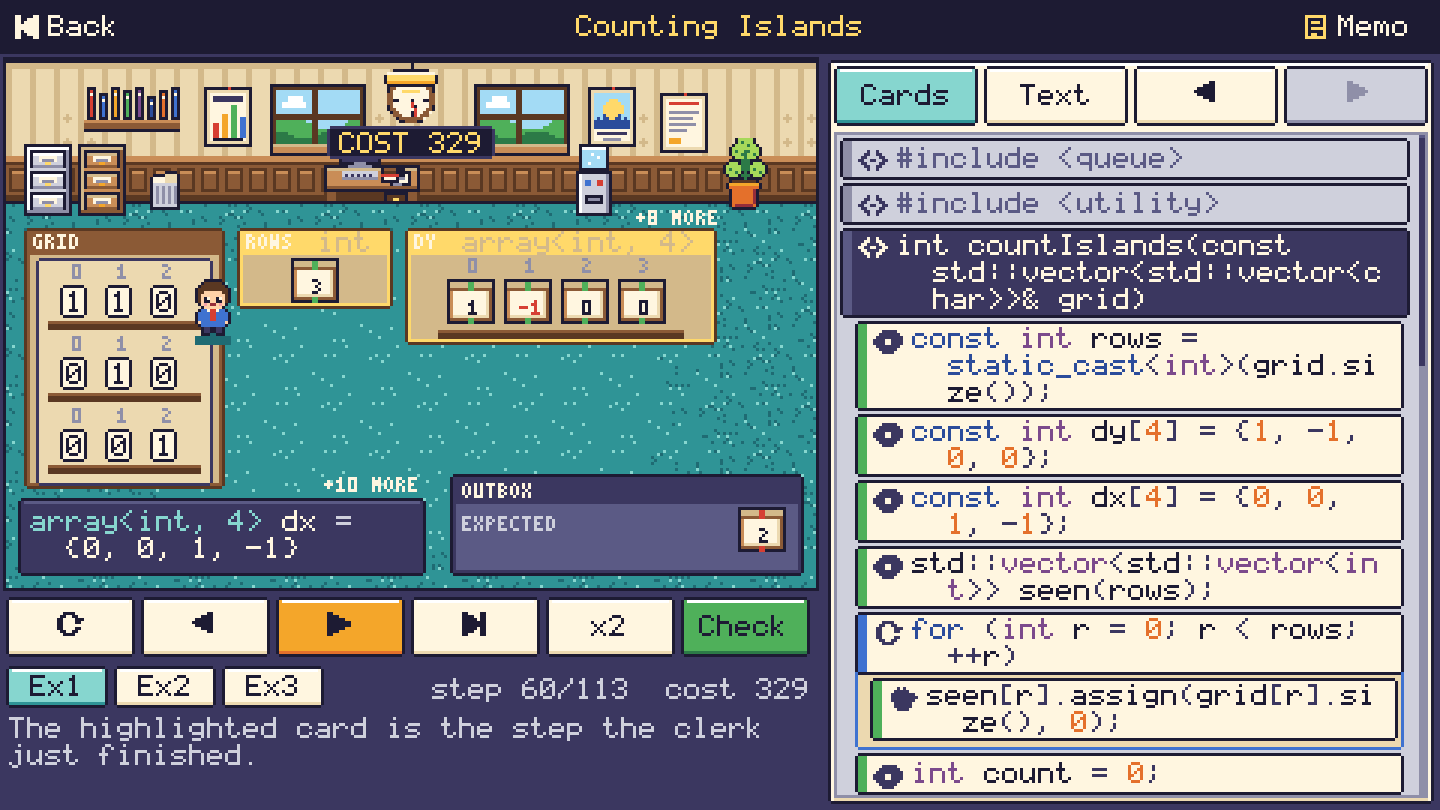
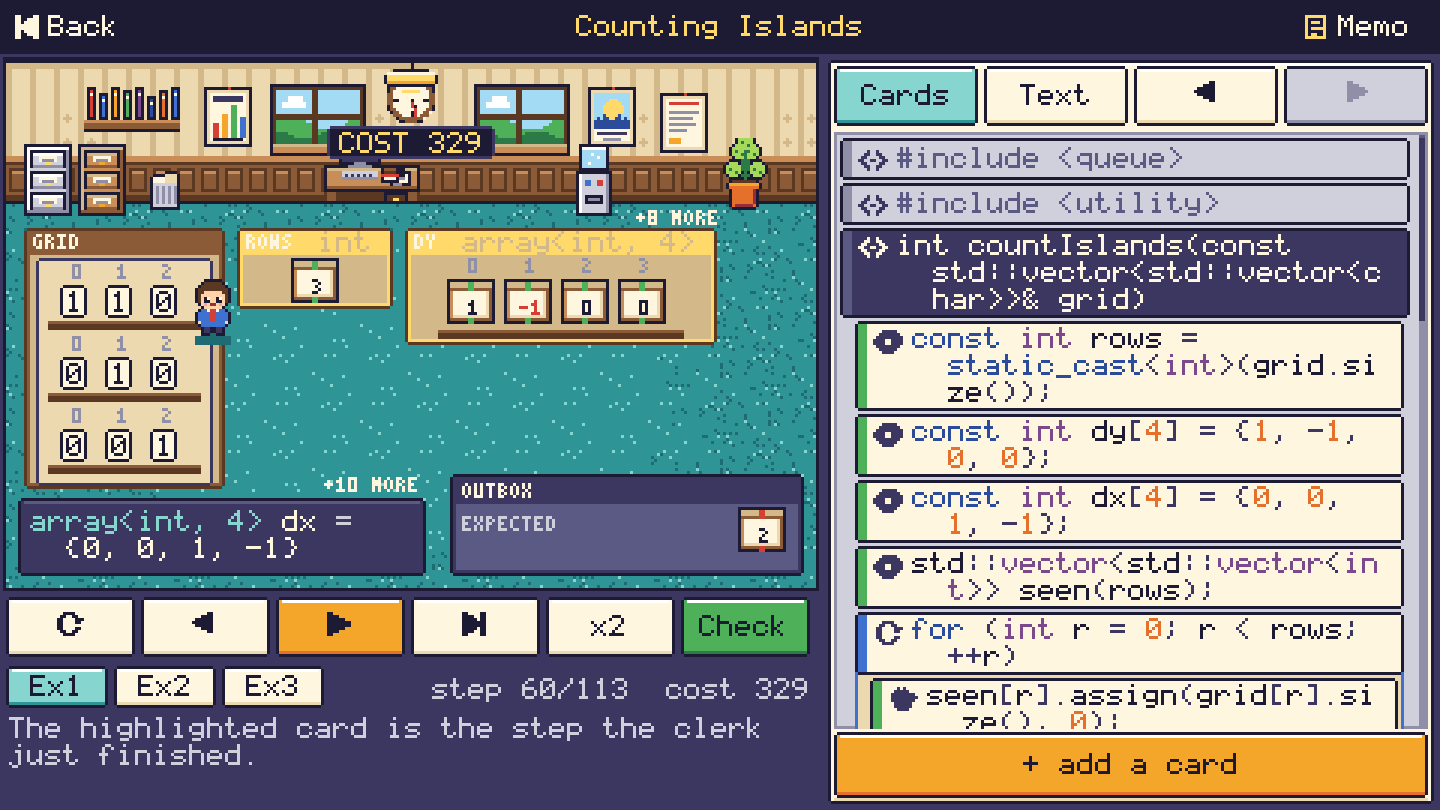
docs: fresh windowed and headless screenshots, architecture notes for the UI polish

Changed region(s): [[0.5625, 0.8951, 1.0, 0.9877], [0.9688, 0.4012, 1.0, 0.4321]]

diff --git a/docs/ARCHITECTURE.md b/docs/ARCHITECTURE.md
@@ -72,6 +72,15 @@ editor: a one-line syntax coloured editor and chip pages for the variables in sc
 operators, member functions of the value left of the cursor (only rows with `card: true`, filtered by the receiver's
 static type) and `std::` names (only unlocked headers).
 
+*Notes under the code.* `EditorPanel::note_of` decides what the strip under the code says, in both views, and the
+strip is always tall enough for every wrapped line (`note_layout`). An untouched or emptied starter (`Session::nudge`)
+is not an error: the note is a yellow "Write your answer between the braces" and the cards offer a big
+"+ Add a statement" button (`cards::empty_slot`, then the card palette). A body that only lacks its `return`
+(`Session::soft_problem`) is a yellow heads-up until Run or Check is pressed; after that every problem is red. The
+status line under the controls never repeats a message the note already shows (`Play::status_line`). The card editor's
+chip pages start with a backspace and a clear chip and have a `;` chip, so a card can be rebuilt with a mouse or a
+finger alone.
+
 The program **text is the source of truth** (`session.rs`): card edits transform the tree and print it back, text
 edits re-parse, undo and redo (buttons, `Ctrl+Z`, `Ctrl+Shift+Z`) are one text history shared by both views, so the
 two views are always in sync. The current statement of a run is highlighted in the text view and on its card.
@@ -85,7 +94,11 @@ a construct a generator cannot express turns into a friendly message on that tab
 sideways and keep their line numbers, so no line is ever cut off.
 
 **Input.** The shell converts pointer positions to virtual pixels and latches presses between 60 Hz ticks;
-`input.rs` derives taps, drags and long presses. Gamepad support is not wired in the shell.
+`input.rs` derives taps, drags and long presses. Typed text and editing keys go through `input::KeyQueue`, which
+hands out one segment per tick so that several keys landing in one tick (slow frames, fast typists, scripted
+keyboards such as `xdotool type`) can never reorder Return and the text around it; a newline delivered as a
+character counts as Return. Typing `}` on a blank line with auto-close on reuses the brace that auto-close added
+instead of doubling it (`tests/polish.rs` types every level's reference solution, with and without auto-close). Gamepad support is not wired in the shell.
 
 **Audio.** `GameEvent::Sfx(name)` and `GameEvent::Music(name)`; the shell renders `assets/music/<name>.song`
 once, caches the WAV and plays it. Failure to open an audio device or a missing song is ignored.

diff --git a/docs/PROGRESS.md b/docs/PROGRESS.md
@@ -86,6 +86,10 @@ What exists (and what each gives you):
   verified by the commands in `docs/BUILDING.md`, which the final report of the branch records.
 - The headless screenshots in `docs/screenshots/` were regenerated for the C++ UI by the UI package. The
   Rust and C tabs show the placeholder until M10.
+- The UI-C package ran the real windowed game (Xvfb + lavapipe) end to end: typing a reference solution, cards with
+  the mouse only, a runtime error, level select, settings, a map level with the watch board, the victory screen and
+  the code tabs. The findings and fixes are in `UI_REVIEW_CPP.md` (section "Real windowed game"); the
+  `docs/screenshots/window-*.png` files are captures of that run.
 - The real-window smoke test (`scripts/gui-smoke.sh`) was last run on the pre-C++ code. Its click coordinates
   depend on the layout, so it must be re-run and may need updating (M12).
 
